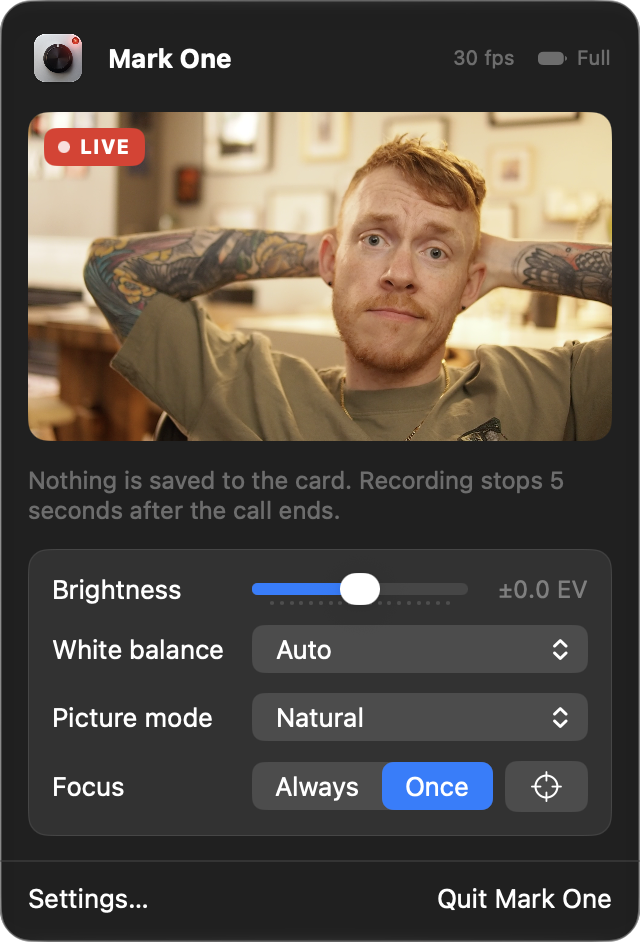
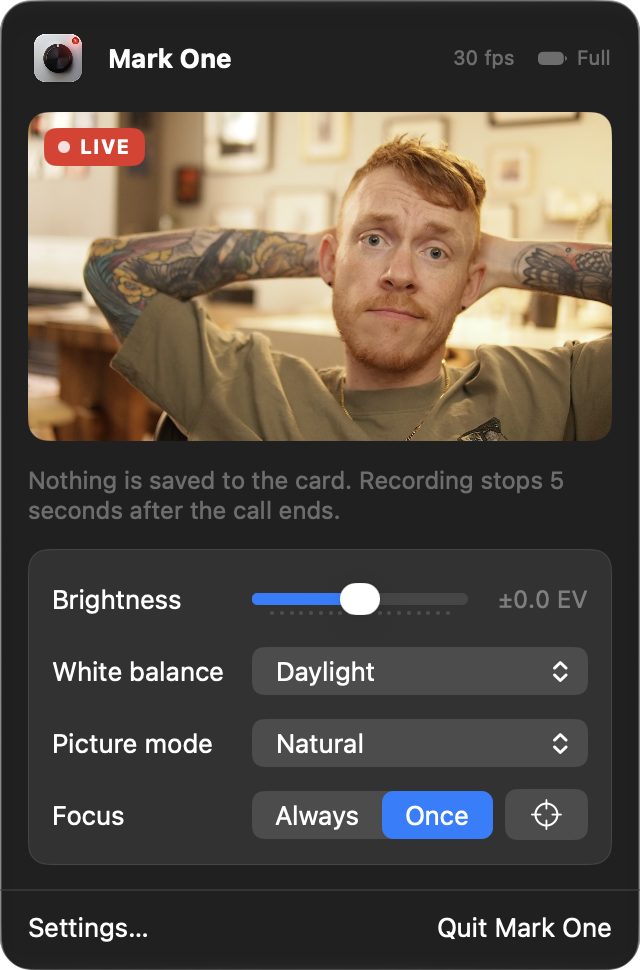
Mark One: Give every control row the same height
The brightness slider's row was shorter than the menus', so its label
sat closer to the next one. The screenshots show the even rows.

diff --git a/mac/MarkOne/App/Views/Components.swift b/mac/MarkOne/App/Views/Components.swift
@@ -152,6 +152,9 @@ struct ControlRow<Control: View>: View {
                 .accessibilityHidden(true)
             control.frame(maxWidth: .infinity, alignment: .leading)
         }
+        // The same height for every row, so a slider's row isn't shorter
+        // than a menu's and the labels sit evenly apart.
+        .frame(minHeight: 26)
     }
 }
 
